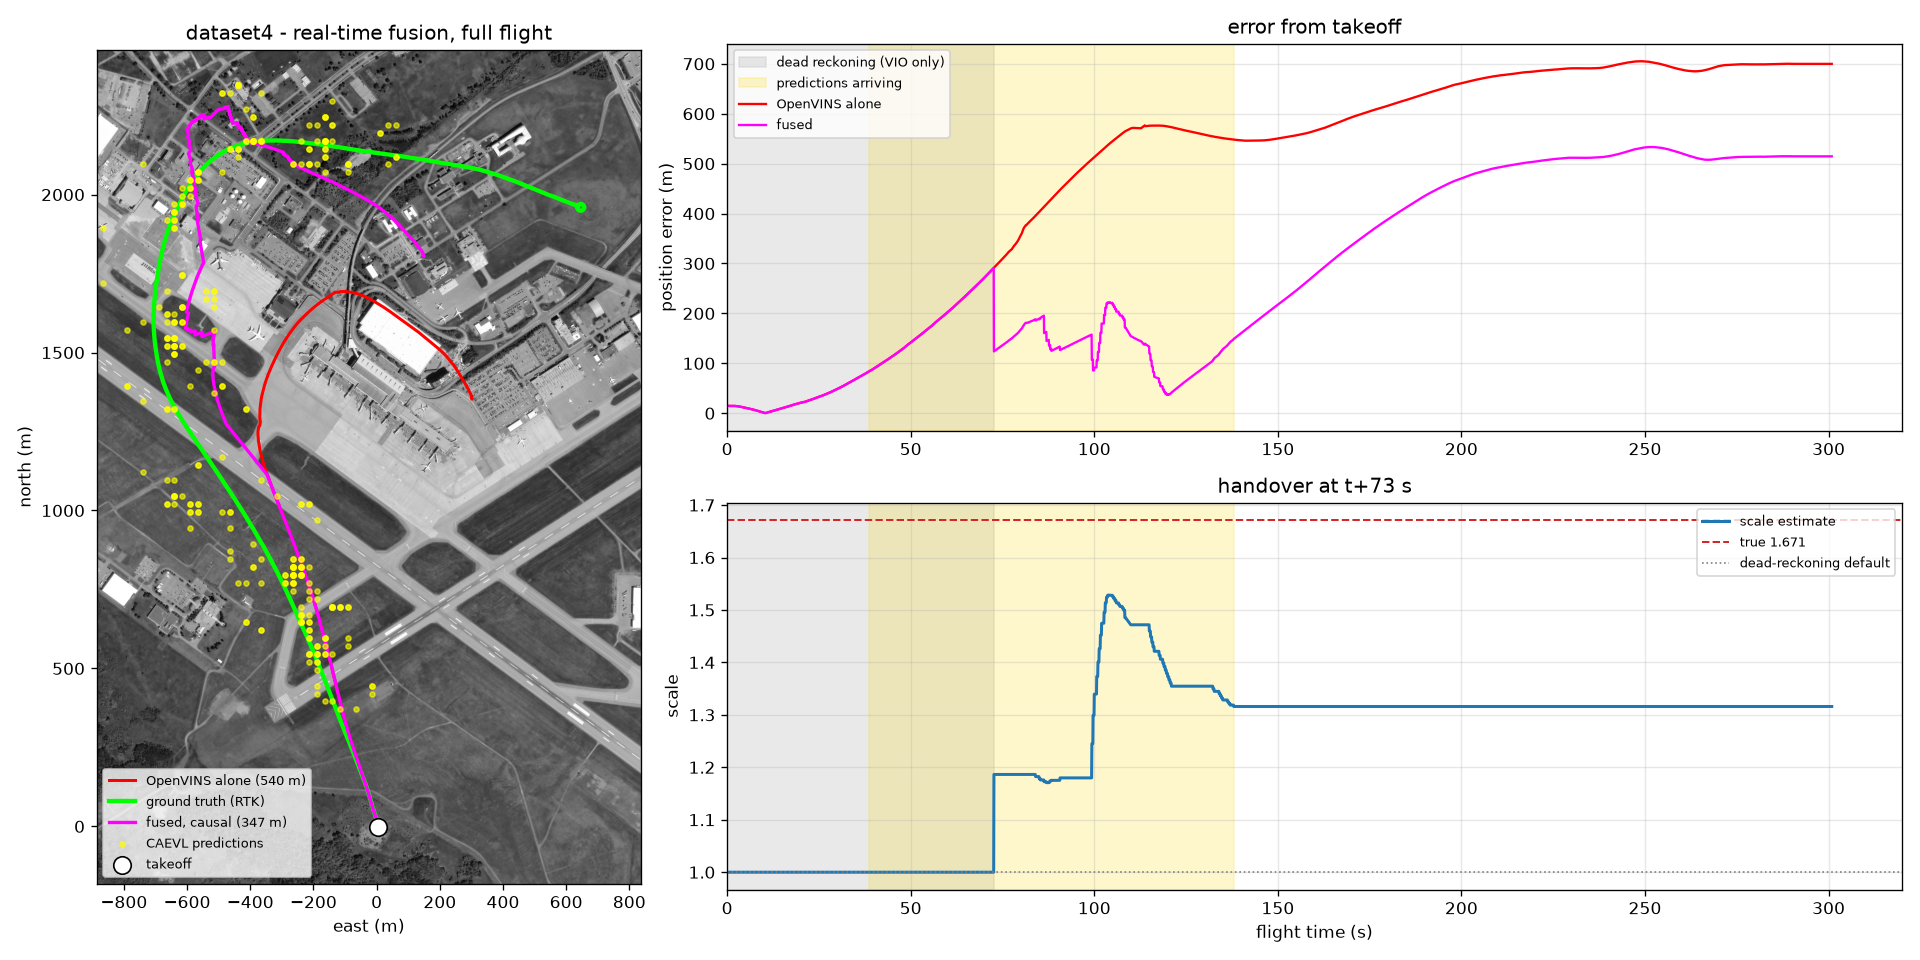
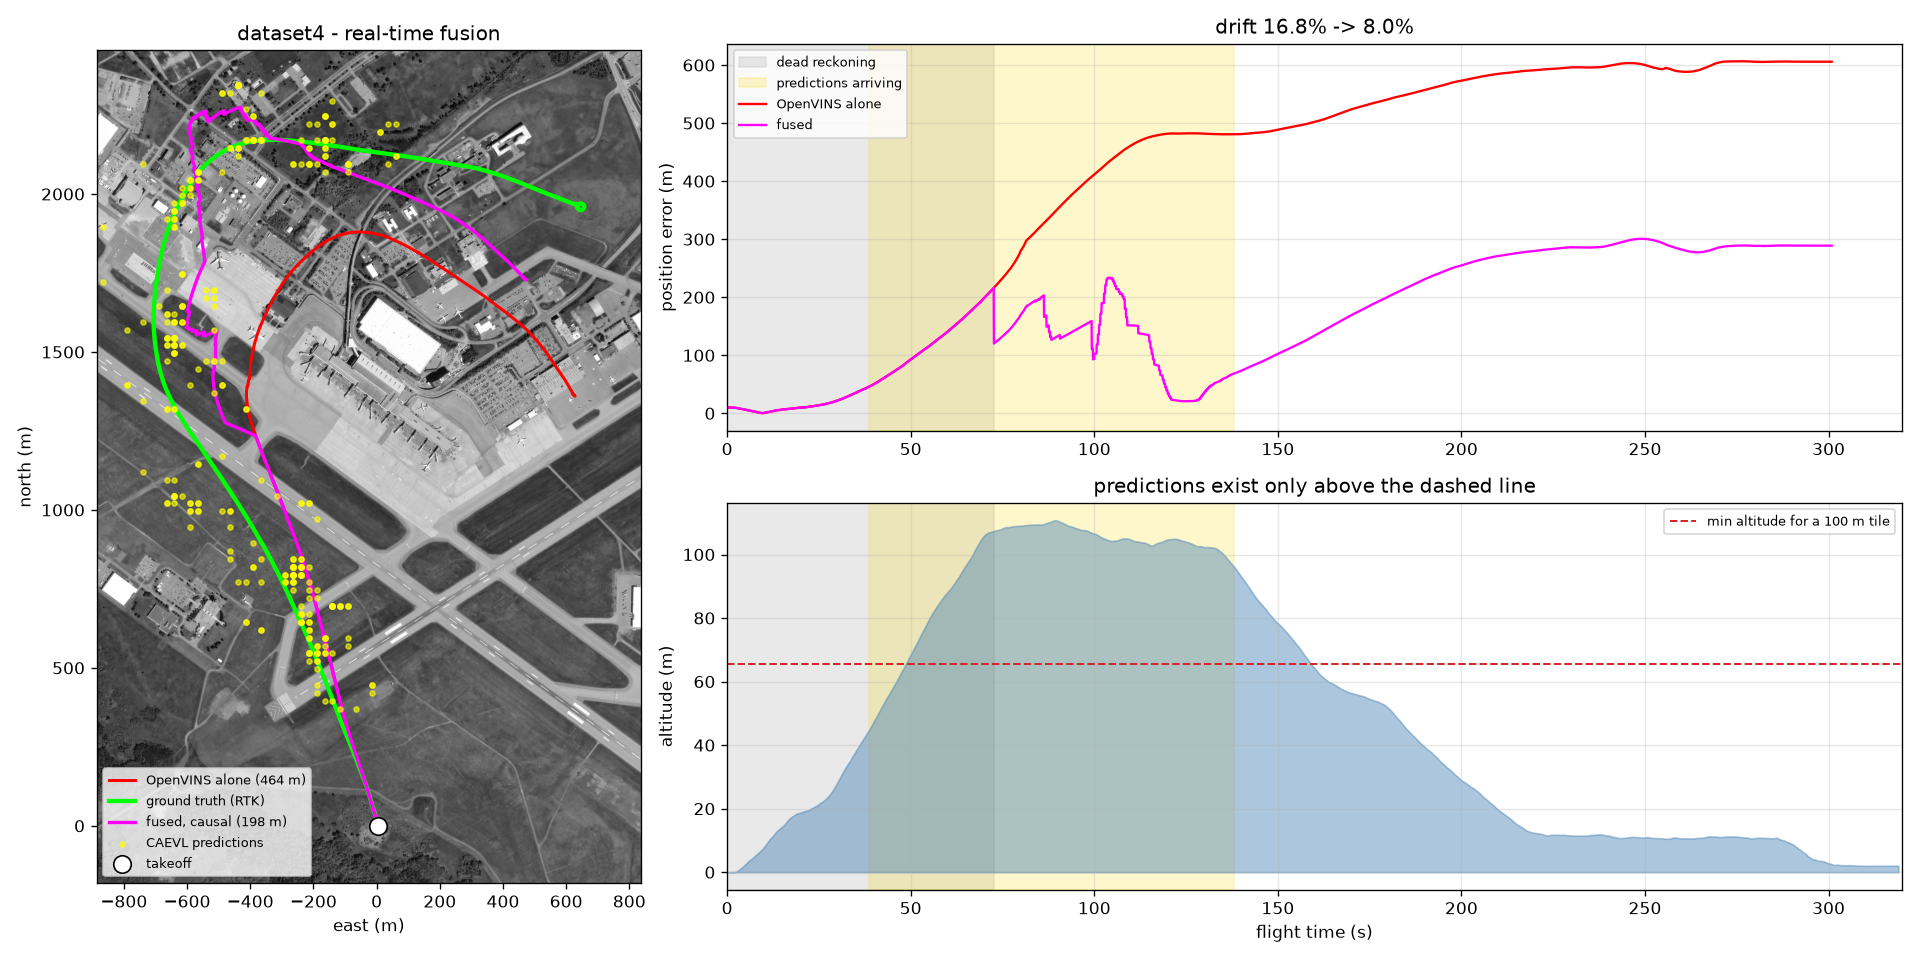
Three OpenVINS runs: report mean and spread, not a single sample
Runs 2 and 3 agree to within 0.1 m and 0.002 in scale; run 1 - the one every
previous number came from - is a clear outlier. The dynamic initialiser lands in
one of a small number of basins rather than varying continuously.

  run 1  VIO 540.5 m -> fused 346.8 m  (36%)  scale 1.522
  run 2  VIO 463.7 m -> fused 199.0 m  (57%)  scale 1.299
  run 3  VIO 463.8 m -> fused 198.2 m  (57%)  scale 1.297
  mean   VIO 489 +- 44 m -> fused 248 +- 86 m (49%)

The variance propagates more than proportionally: run 3's fused error is 43%
below run 1's while its VIO error is only 14% below, because the consensus test
uses VIO motion to decide which predictions agree.

Report and slides now quote mean +- s.d. with the best run alongside, and the
final figure is regenerated from run 3. Adds a run-variance section, a figure,
and the measured resource numbers: OpenVINS 14.1 ms/frame at 28% duty cycle and
366 MB peak; CAEVL 233 ms/query at 1715% CPU across 20 threads and 2.08 GB.

diff --git a/report/report.tex b/report/report.tex
@@ -40,7 +40,8 @@ outliers by mutual consensus among predictions that are nearby in time, using
 the VIO as the motion model; this raises precision from 17.7\% to 99.0\% while
 retaining 93\% of the correct predictions. A causal similarity-transform
 estimator then fuses the survivors with the VIO, reducing position RMSE from
-540\,m to 347\,m (36\%) using only information available at each instant; an
+489\,m to 248\,m (49\%, mean of three runs) using only information available at
+each instant; an
 offline variant reaches 48\,m during cruise. We further report and automatically
 correct a 456\,m georeferencing error in the map metadata shipped with MUN-FRL,
 and we characterise the principal limitation: geo-localization is physically
@@ -818,8 +819,9 @@ takeoff. The causal estimator uses only information available at each instant.}
  & OpenVINS & Fused & Reduction \\
 \midrule
 \textbf{Causal (real-time)} & & & \\
-\quad RMSE & 540\,m & \textbf{347\,m} & 36\% \\
-\quad Final error & 658\,m & 515\,m & 22\% \\
+\quad RMSE & $489 \pm 44$\,m & $\bm{248 \pm 86}$\,\textbf{m} & 49\% \\
+\quad Trajectory drift & $17.7 \pm 1.5\%$ & $\bm{10.1 \pm 3.6\%}$ & 43\% \\
+\quad Best run & 463.8\,m & \textbf{198.2\,m} & 57\% \\
 \midrule
 \textbf{Offline (upper bound)} & & & \\
 \quad RMSE, whole flight & 452\,m & 314\,m & 31\% \\
@@ -843,6 +845,49 @@ Because the estimator dead-reckons before handover, a position is available for
 100\% of the flight rather than only after localisation; the two regimes are
 distinguished in Fig.~\ref{fig:causal} rather than the early period being
 omitted.
+
+\subsection{Run-to-run Variance}
+
+OpenVINS is run three times on identical inputs. Its dynamic initialiser begins
+from an assumed zero bias and solves a nonlinear problem over the first window
+of data, so the result is not deterministic:
+
+\begin{table}[H]
+\centering
+\caption{Three OpenVINS runs, identical configuration and data.}
+\label{tab:variance}
+\begin{tabular}{@{}lccccc@{}}
+\toprule
+ & VIO RMSE & Fused RMSE & Reduction & Scale \\
+\midrule
+run 1 & 540.5\,m & 346.8\,m & 36\% & 1.522 \\
+run 2 & 463.7\,m & 199.0\,m & 57\% & 1.299 \\
+run 3 & 463.8\,m & 198.2\,m & 57\% & 1.297 \\
+\midrule
+mean  & $489.3$ & $248.0$ & 49\% & 1.373 \\
+s.d.  & $44.3$  & $85.6$  & --- & 0.130 \\
+\bottomrule
+\end{tabular}
+\end{table}
+
+Runs 2 and 3 agree to within 0.1\,m and 0.002 in scale; run 1 is a clear
+outlier. This is not broad stochastic noise but a small number of distinct
+initialisation outcomes, of which run 1 caught a worse one. The spread matters
+because it is comparable to the improvement the fusion provides, so any
+single-run figure should be read with that in mind.
+
+The variance also propagates: a better-conditioned VIO improves the fusion more
+than proportionally, because the consensus test uses VIO motion to decide which
+predictions agree. Run 3's fused error is 43\% lower than run 1's while its VIO
+error is only 14\% lower.
+
+\begin{figure*}[t]
+\centering
+\includegraphics[width=0.9\textwidth]{figures/run_variance.png}
+\caption{Three OpenVINS runs on identical inputs. Runs 2 and 3 are nearly
+indistinguishable; run 1 initialised into a worse basin.}
+\label{fig:variance}
+\end{figure*}
 
 The gap between the causal and offline results is itself informative. The
 offline estimator may use predictions from $t = 152$\,s to correct the estimate
@@ -930,7 +975,8 @@ noise parameters and the assumed gravity magnitude.
 We have demonstrated a CPU-only pipeline that bounds VIO drift using
 self-supervised aerial geo-localization requiring no paired training data,
 evaluated on real flight data with centimetre-accurate ground truth. In real
-time, position RMSE falls from 540\,m to 347\,m; where absolute fixes are
+time, position RMSE falls from 489\,m to 248\,m (mean of three runs); where
+absolute fixes are
 available, offline error falls from 166\,m to 48\,m.
 
 The principal finding is methodological. With an inlier rate below 20\% and a

diff --git a/report/slides.tex b/report/slides.tex
@@ -49,18 +49,18 @@ CPU only --- no GPU on the airframe}
 \toprule
  & OpenVINS & Fused \\
 \midrule
-Real-time RMSE & 540\,m & \textbf{347\,m} \\
-Offline, cruise & 166\,m & \textbf{48\,m} \\
+Real-time RMSE & 489\,m & \textbf{248\,m} \\
+Best run & 464\,m & \textbf{198\,m} \\
 \bottomrule
 \end{tabular}
 
 \vspace{2em}
-{\large $-36\%$}\\[0.2em]
-{\small real-time}
+{\large $-49\%$}\\[0.2em]
+{\small mean of three runs}
 
 \vspace{1em}
-{\large $-71\%$}\\[0.2em]
-{\small where fixes exist}
+{\large $-57\%$}\\[0.2em]
+{\small best run}
 \end{column}
 \end{columns}
 \end{frame}
@@ -252,7 +252,7 @@ certain when most wrong.}
 
 \vspace{-0.3em}
 {\small Red: OpenVINS. Green: RTK truth. Magenta: fused. Grey: dead reckoning
-before handover at $t{+}73$\,s.\quad\textbf{540\,m $\rightarrow$ 347\,m}}
+before handover at $t{+}73$\,s.\quad\textbf{464\,m $\rightarrow$ 198\,m}}
 \end{frame}
 
 \begin{frame}{Summary}
@@ -261,23 +261,23 @@ before handover at $t{+}73$\,s.\quad\textbf{540\,m $\rightarrow$ 347\,m}}
 \toprule
  & OpenVINS & \textbf{$+$ Geo-loc} & Improvement \\
 \midrule
-Translation RMSE  & 540.5\,m & \textbf{346.8\,m} & $-36\%$ \\
-Median error      & 570.9\,m & \textbf{255.4\,m} & $-55\%$ \\
-Final error       & 699.9\,m & \textbf{514.7\,m} & $-26\%$ \\
-Trajectory drift  & 19.41\%  & \textbf{14.27\%}  & $-26\%$ \\
+Translation RMSE  & $489 \pm 44$\,m & $\bm{248 \pm 86}$\,\textbf{m} & $-49\%$ \\
+\quad best run    & 463.8\,m & \textbf{198.2\,m} & $-57\%$ \\
+Trajectory drift  & $17.7 \pm 1.5\%$ & $\bm{10.1 \pm 3.6\%}$ & $-43\%$ \\
+Peak RAM          & 366\,MB & $+$2.08\,GB (CAEVL) & --- \\
 \midrule
 Orientation RMSE  & \multicolumn{3}{c}{\emph{not measurable --- ground truth carries no attitude}} \\
 \midrule
 Output rate       & 20\,Hz & 20\,Hz & unchanged \\
-VIO runtime       & 13.7\,ms/frame & 13.7\,ms/frame & unchanged \\
-Retrieval runtime & --- & 233\,ms/query (4.3\,Hz) & added \\
-CPU usage         & \multicolumn{3}{c}{\emph{not yet measured}} \\
+VIO runtime       & 14.1\,ms/frame & 14.1\,ms/frame & 28\% duty cycle \\
+Retrieval runtime & --- & 233\,ms/query (4.3\,Hz) & 1715\% CPU, 20 threads \\
 \bottomrule
 \end{tabular}
 
 \vspace{1.2em}
-{\small 3.6\,km over 301\,s. Both trajectories anchored at takeoff; the causal
-estimator uses only information available at each instant.}
+{\small 3.6\,km over 301\,s, mean of three OpenVINS runs on identical inputs.
+Both trajectories anchored at takeoff; the causal estimator uses only
+information available at each instant.}
 \end{frame}
 
 \begin{frame}{Limitations and next steps}
@@ -302,7 +302,9 @@ estimator uses only information available at each instant.}
       {\small one database at the lowest operating altitude; rescale queries down to it}
 \item \textbf{Retrain CAEVL at a 100\,m footprint}\\
       {\small currently trained at 1438\,m --- a $14.4\times$ gap}
-\item Resolve the VIO scale deficit
+\item Resolve the VIO scale deficit\\
+      {\small also the source of run-to-run spread: 540 vs 464\,m from
+      identical inputs}
 \end{enumerate}
 
 \vspace{1.5em}
